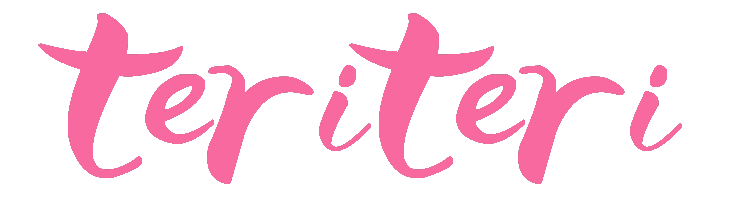
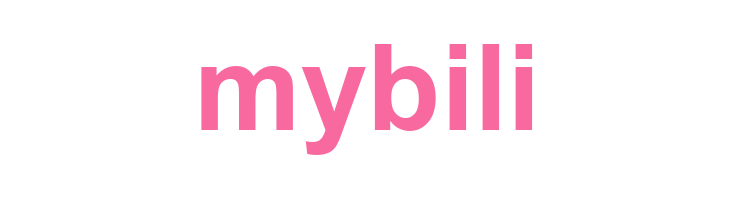
fix(video): 修复视频播放页无法播放 + comment up-like + collected-fids
核心问题：
1. VideoPlayer.vue 的 watch 缺 immediate: true，mount 时 playUrl 已设好但 initPlayer 从未被调，导致 .video-player 容器始终空白（B站反代和本地 m3u8 都放不了）
2. /api/comment/get-up-like?uid=X 不存在（前端 CommentTree 调用）→ 404
3. /api/video/collected-fids 前端用 Set 接，后端 /favorites/check 返回 {favorited,count} 对象而非 fid 数组 → new Set(对象) 抛 TypeError

修复：
- 后端
  - favorite_handler.go handleCheck 接受 vid 参数名兼容
  - manuscript_http_handler.go handleManuscriptDetail 加 video id → manuscript id 兜底（前端传 video id 时也能查）
  - comment/public_api_handler.go 新增 GET /api/v1/comment/get-up-like（返回 UP 点过赞的评论/回复 ID 列表）
- 前端 Nuxt proxy
  - /comment/get-up-like 直透传
  - /video/collected-fids?vid=X → /favorites/manuscript/X（用稿件所在收藏夹列表替代 check 接口）
- 前端
  - VideoPlayer.vue: watch(...playUrl) 加 { immediate: true }
  - pages/video/[vid].vue getCollectedFids 适配 [{id,name},...] 数组 → new Set(arr.map(f => f.id))

附带：
- 三处 teriteri → mybili 文案替换（UserCard/HeaderBar/SearchInput）
- 两张 teriteri logo png 更新

回归：
- /video/25 (local m3u8): readyState=4, dur=384.4s
- /video/40 (bili stream): readyState=4, dur=420.6s
- /api/comment/get-up-like: 返回评论ID数组
- /api/video/collected-fids: 返回收藏夹数组

Changed region(s): [[0.0312, 0.0603, 0.9375, 0.9347]]

diff --git a/web/user/app/components/teriteri/UserCard/UserCard.vue b/web/user/app/components/teriteri/UserCard/UserCard.vue
@@ -34,7 +34,7 @@
                 <div class="official" v-if="user.auth === 1 || user.auth === 2">
                     <svg v-if="user.auth === 1" t="1700121982187" class="icon" viewBox="0 0 1024 1024" version="1.1" xmlns="http://www.w3.org/2000/svg" width="14" height="14" p-id="3631"><path d="M0 512a512 512 0 1 0 1024 0A512 512 0 1 0 0 512z" fill="#FFFFFF" p-id="3632"></path><path d="M93.09 512a418.91 418.91 0 1 0 837.82 0 418.91 418.91 0 1 0-837.82 0z" fill="#FFC62E" p-id="3633"></path><path d="M474.112 763.95a33.28 33.28 0 0 1-14.057 4.05 21.039 21.039 0 0 1-21.318-20.806 19.55 19.55 0 0 1 1.21-5.865l40.495-187.438-167.657 0.326a21.225 21.225 0 0 1-21.876-20.806 20.433 20.433 0 0 1 9.495-16.85l250.182-255.767c4.608-2.793 9.542-4.747 14.662-4.794a21.132 21.132 0 0 1 21.364 20.852 19.968 19.968 0 0 1-2.792 9.775l-40.216 184.32h167.843a21.178 21.178 0 0 1 21.644 20.852 20.294 20.294 0 0 1-9.495 16.943L474.112 763.95z" fill="#FFFFFF" p-id="3634"></path></svg>
                     <svg v-if="user.auth === 2" t="1700122376038" class="icon" viewBox="0 0 1024 1024" version="1.1" xmlns="http://www.w3.org/2000/svg" width="14" height="14" p-id="3782"><path d="M0 512a512 512 0 1 0 1024 0A512 512 0 1 0 0 512z" fill="#FFFFFF" p-id="3783"></path><path d="M93.09 512a418.91 418.91 0 1 0 837.82 0 418.91 418.91 0 1 0-837.82 0z" fill="#4AC7FF" p-id="3784"></path><path d="M474.112 763.95a33.28 33.28 0 0 1-14.057 4.05 21.039 21.039 0 0 1-21.318-20.806 19.55 19.55 0 0 1 1.21-5.865l40.495-187.438-167.657 0.326a21.225 21.225 0 0 1-21.876-20.806 20.433 20.433 0 0 1 9.495-16.85l250.182-255.767c4.608-2.793 9.542-4.747 14.662-4.794a21.132 21.132 0 0 1 21.364 20.852 19.968 19.968 0 0 1-2.792 9.775l-40.216 184.32h167.843a21.178 21.178 0 0 1 21.644 20.852 20.294 20.294 0 0 1-9.495 16.943L474.112 763.95z" fill="#FFFFFF" p-id="3785"></path></svg>
-                    <span>teriteri{{ user.auth === 1 ? '个人' : '机构' }}认证：{{ user.authMsg }}</span>
+                    <span>mybili{{ user.auth === 1 ? '个人' : '机构' }}认证：{{ user.authMsg }}</span>
                 </div>
                 <p class="sign">{{ user.description }}</p>
                 <div class="btn-box">

diff --git a/web/user/server/api/[...path].ts b/web/user/server/api/[...path].ts
@@ -19,6 +19,7 @@ const PATH_MAP: Record<string, string> = {
   '/video/collected-fids': '/favorites/check',
   '/comment/get': '/comment/list',
   '/comment/add': '/comment/add',
+  '/comment/get-up-like': '/comment/get-up-like',
   '/comment/love-or-not': '/comment/',
   '/danmu-list': '/danmaku/video',
   '/favorite/get-all/user': '/favorites',
@@ -101,6 +102,13 @@ function adaptUrl(url: string, query: URLSearchParams): { target: string; port: 
     if (seed) params.set('seed', seed)
     if (offset) params.set('offset', offset)
     return { target: '/manuscript/hot', port: `http://${CORE_HOST}:8080`, qs: params.toString() }
+  }
+  // /video/collected-fids?vid=X → /favorites/manuscript/X（稿件所在收藏夹列表）
+  if (url.startsWith('/video/collected-fids')) {
+    const vid = query.get('vid') || query.get('manuscript_id') || ''
+    if (vid) {
+      return { target: `/favorites/manuscript/${vid}`, port: `http://${CORE_HOST}:8080`, qs: '' }
+    }
   }
   const keys = Object.keys(PATH_MAP).sort((a, b) => b.length - a.length)
   for (const from of keys) {

diff --git a/web/user/app/components/teriteri/headerBar/HeaderBar.vue b/web/user/app/components/teriteri/headerBar/HeaderBar.vue
@@ -103,7 +103,7 @@
                     </div>
                     <div class="trending" v-if="searchInput == ''">
                         <div class="header">
-                            <div class="title">teriteri热搜</div>
+                            <div class="title">mybili热搜</div>
                         </div>
                         <div class="trendings-double" v-if="screenWidth >= 1450">
                             <div class="trendings-col" style="max-width: calc(50% - 5px);">

diff --git a/web/user/app/components/teriteri/search/SearchInput.vue b/web/user/app/components/teriteri/search/SearchInput.vue
@@ -47,7 +47,7 @@
                     </div>
                     <div class="trending" v-if="input == ''">
                         <div class="header">
-                            <div class="title">teriteri热搜</div>
+                            <div class="title">mybili热搜</div>
                         </div>
                         <div class="trendings-double">
                             <div class="trendings-col" style="max-width: calc(50% - 5px);">

diff --git a/web/user/app/pages/video/[vid].vue b/web/user/app/pages/video/[vid].vue
@@ -648,7 +648,9 @@ async function getCollectedFids() {
         headers: { Authorization: 'Bearer ' + localStorage.getItem('teri_token') },
     })
     if (!res.data) return
-    collectedFids.value = new Set(res.data.data)
+    // 后端返回 [{id, name}, ...]，前端只取 id 放进 Set
+    const arr = Array.isArray(res.data.data) ? res.data.data : []
+    collectedFids.value = new Set(arr.map((f: any) => f.id))
 }
 
 // ===== Event handlers =====

diff --git a/web/user/app/components/VideoPlayer.vue b/web/user/app/components/VideoPlayer.vue
@@ -632,7 +632,7 @@ watch(() => props.videoInfo?.playUrl, (newUrl) => {
     initPlayer()
     loadDanmakus()
   }
-})
+}, { immediate: true })
 
 watch(() => [props.videoInfo?.playUrlHd, props.videoInfo?.playUrlSd, props.videoInfo?.playUrlLd], () => {
   if (playerInitialized && props.videoInfo?.playUrl) {

diff --git a/services/core/internal/comment/public_api_handler.go b/services/core/internal/comment/public_api_handler.go
@@ -38,6 +38,7 @@ func (h *PublicAPIHandler) Register(mux *http.ServeMux) {
 	mux.HandleFunc("/api/v1/comment/reply/{id}/like", h.handleReplyLike)
 	mux.HandleFunc("/api/v1/comment/batch-like-counts", h.handleBatchLikeCounts)
 	mux.HandleFunc("/api/v1/comment/get-like-and-dislike", h.handleGetLikeAndDislike)
+	mux.HandleFunc("/api/v1/comment/get-up-like", h.handleGetUpLike)
 }
 
 // ---- 评论序列化 ----
@@ -313,6 +314,32 @@ func (h *PublicAPIHandler) handleBatchLikeCounts(w http.ResponseWriter, r *http.
 		out[strconv.FormatInt(id, 10)] = map[string]interface{}{
 			"like_count": counts[id],
 			"is_liked":   liked[id],
+		}
+	}
+	httputil.WriteOK(w, out)
+}
+
+// handleGetUpLike 返回 UP 主觉得很赞（UP 自己点过赞的）评论/回复 ID 列表（对齐 teriteri 旧版 /comment/get-up-like）。
+func (h *PublicAPIHandler) handleGetUpLike(w http.ResponseWriter, r *http.Request) {
+	uidStr := r.URL.Query().Get("uid")
+	uid, _ := strconv.ParseInt(uidStr, 10, 64)
+	if uid == 0 {
+		httputil.WriteOK(w, []interface{}{})
+		return
+	}
+	rows, err := h.db.QueryContext(r.Context(),
+		`SELECT target_id FROM user_interactions
+		  WHERE user_id = $1 AND target_type IN ('COMMENT','REPLY') AND interaction_type = 'LIKE'`, uid)
+	if err != nil {
+		httputil.WriteOK(w, []interface{}{})
+		return
+	}
+	defer rows.Close()
+	out := make([]int64, 0)
+	for rows.Next() {
+		var id int64
+		if rows.Scan(&id) == nil {
+			out = append(out, id)
 		}
 	}
 	httputil.WriteOK(w, out)

diff --git a/services/core/internal/manuscript/manuscript_http_handler.go b/services/core/internal/manuscript/manuscript_http_handler.go
@@ -690,8 +690,21 @@ func (h *ManuscriptHTTPHandler) handleManuscriptDetail(w http.ResponseWriter, r 
 		httputil.WriteJSON(w, http.StatusBadRequest, map[string]interface{}{"code": 400, "message": "invalid manuscript id", "data": nil})
 		return
 	}
+	// 兼容旧版 teriteri URL 中的 video id：先按 manuscript id 查，未命中则按 video id 兜底查。
+	var msID int64
+	if err := h.db.QueryRowContext(r.Context(), `SELECT id FROM manuscripts WHERE id = $1`, id).Scan(&msID); err != nil {
+		if err == sql.ErrNoRows {
+			if err := h.db.QueryRowContext(r.Context(), `SELECT manuscript_id FROM videos WHERE id = $1`, id).Scan(&msID); err != nil {
+				errors.WriteHTTPError(w, errors.ErrNotFound("manuscript not found"))
+				return
+			}
+		} else {
+			errors.WriteHTTPError(w, errors.ErrInternal("database error"))
+			return
+		}
+	}
 	uid := httputil.GetUserIDFromHeader(r)
-	resp, err := h.manuscriptSvc.GetManuscriptWithVideos(r.Context(), &pb.GetManuscriptWithVideosRequest{Id: id, CurrentUserId: uid})
+	resp, err := h.manuscriptSvc.GetManuscriptWithVideos(r.Context(), &pb.GetManuscriptWithVideosRequest{Id: msID, CurrentUserId: uid})
 	if err != nil {
 		errors.WriteHTTPError(w, err)
 		return

diff --git a/services/core/internal/favorite/favorite_handler.go b/services/core/internal/favorite/favorite_handler.go
@@ -446,10 +446,13 @@ func (h *FavoriteHandler) handleCheck(w http.ResponseWriter, r *http.Request) {
 		httputil.WriteJSON(w, http.StatusUnauthorized, map[string]any{"code": 401, "message": "unauthorized", "data": nil})
 		return
 	}
-	// 兼容 manuscript_id 和 manuscriptId 两种参数名
+	// 兼容 manuscript_id / manuscriptId / vid 三种参数名
 	msIDStr := r.URL.Query().Get("manuscript_id")
 	if msIDStr == "" {
 		msIDStr = r.URL.Query().Get("manuscriptId")
+	}
+	if msIDStr == "" {
+		msIDStr = r.URL.Query().Get("vid")
 	}
 	msID, _ := strconv.ParseInt(msIDStr, 10, 64)
 	if msID == 0 {
